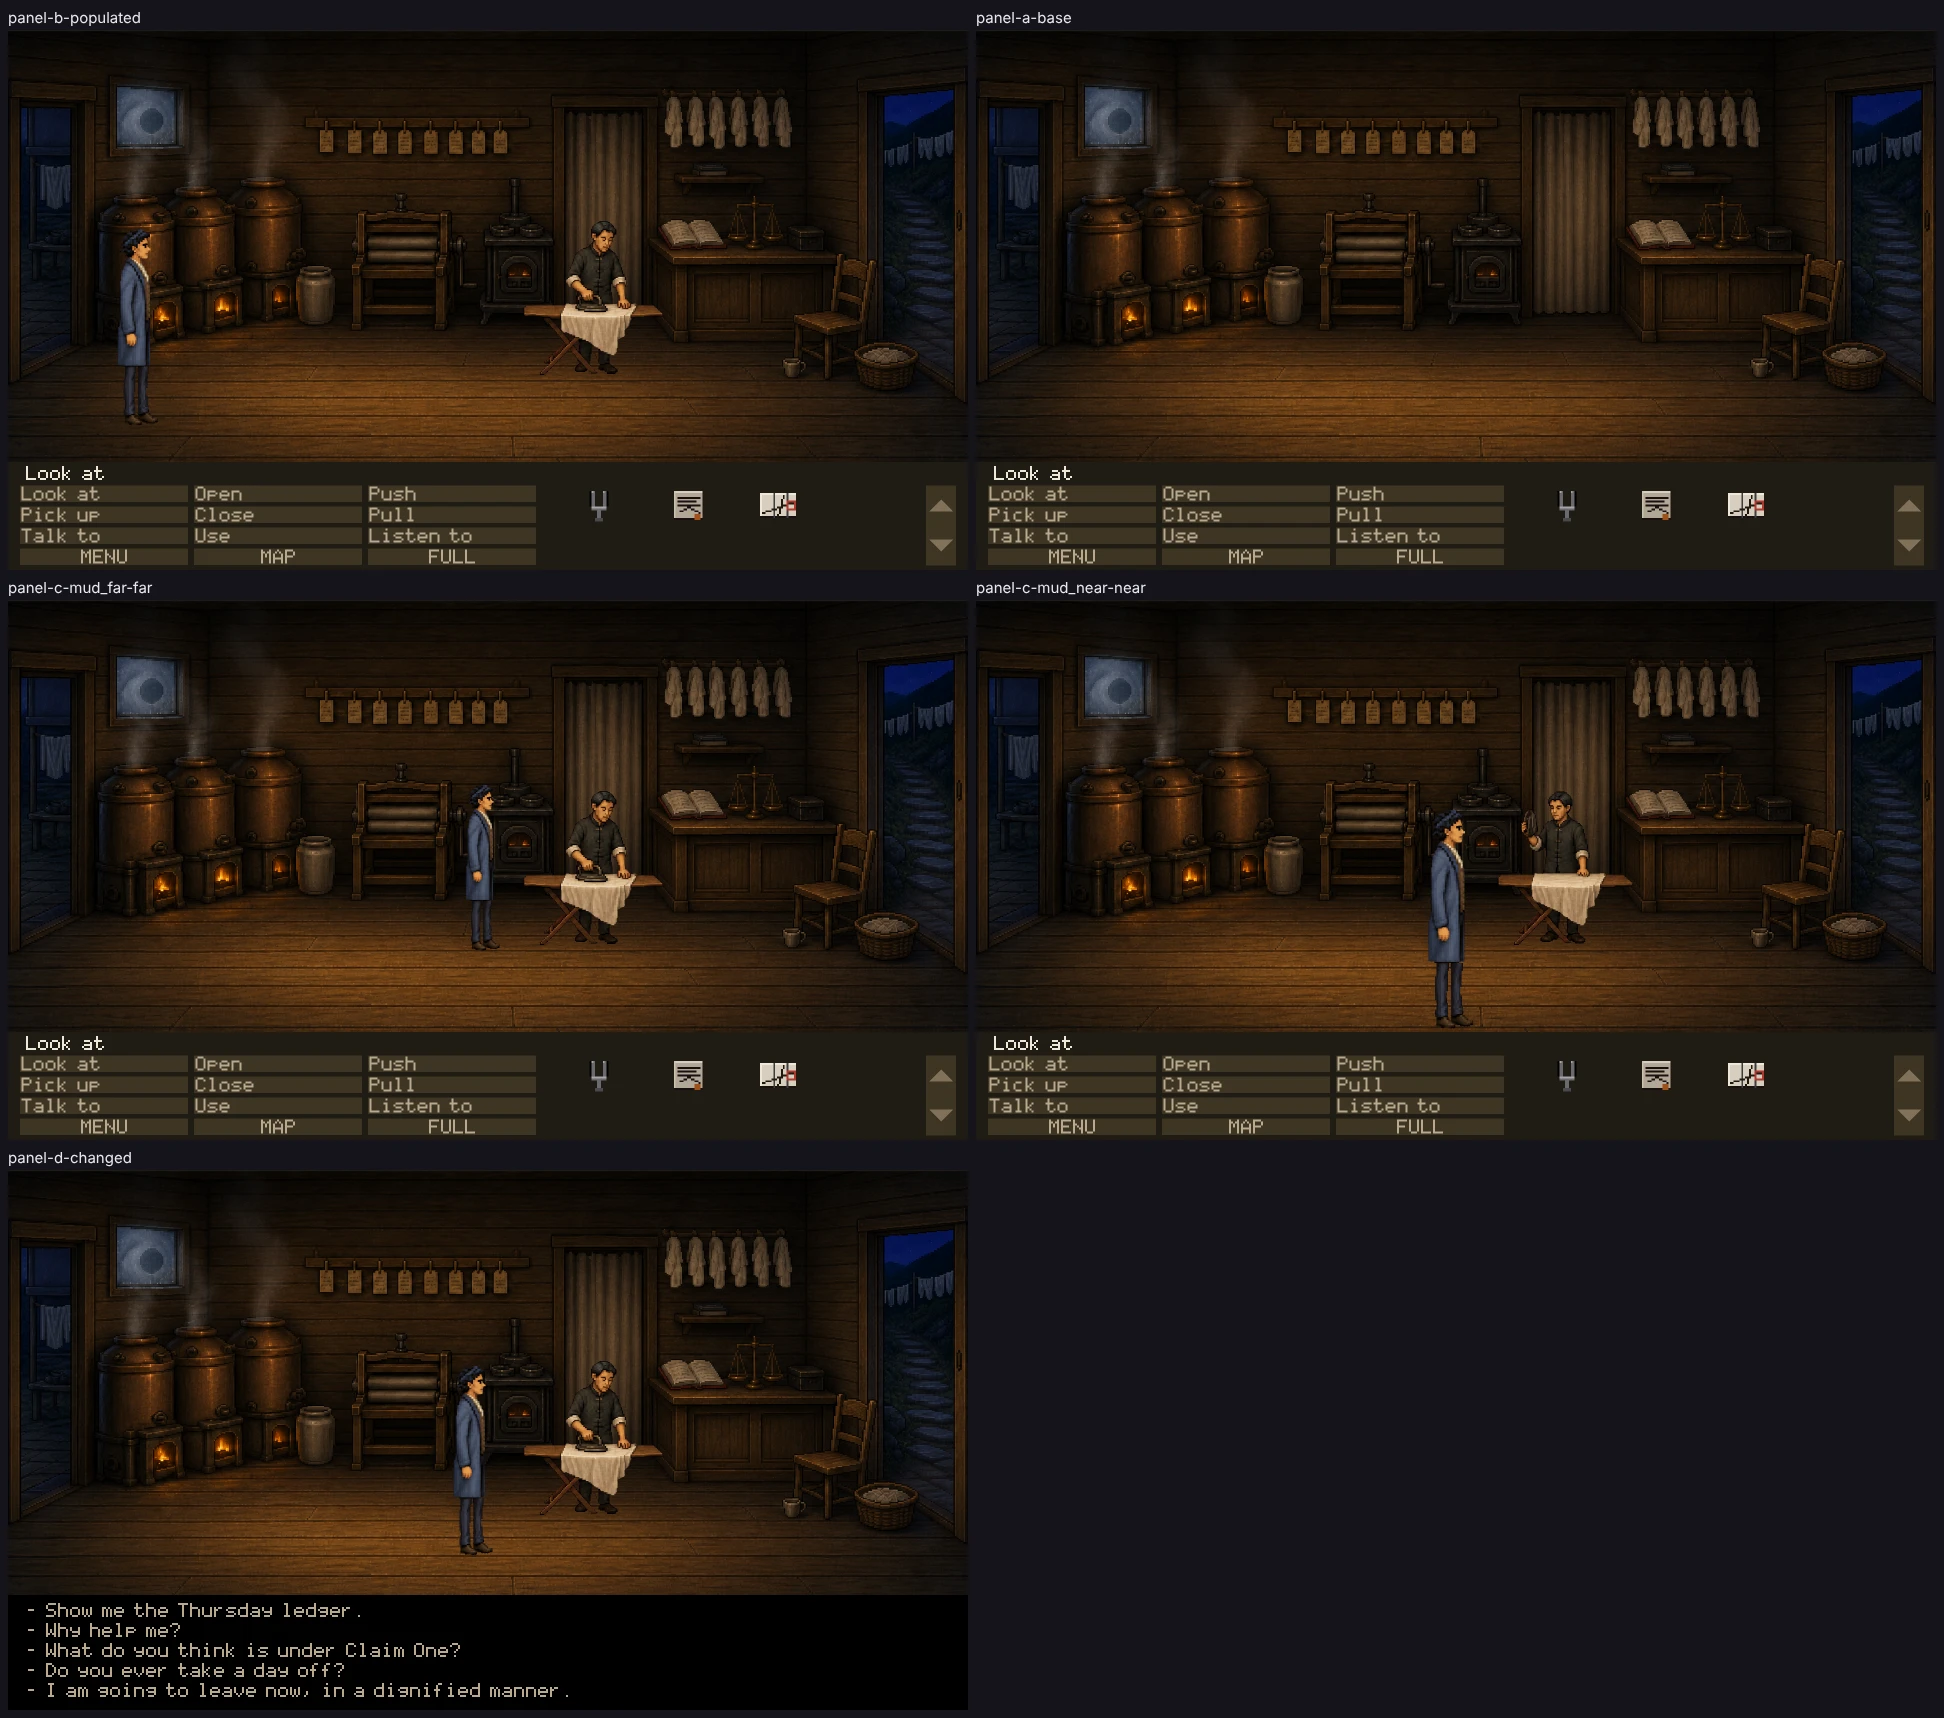
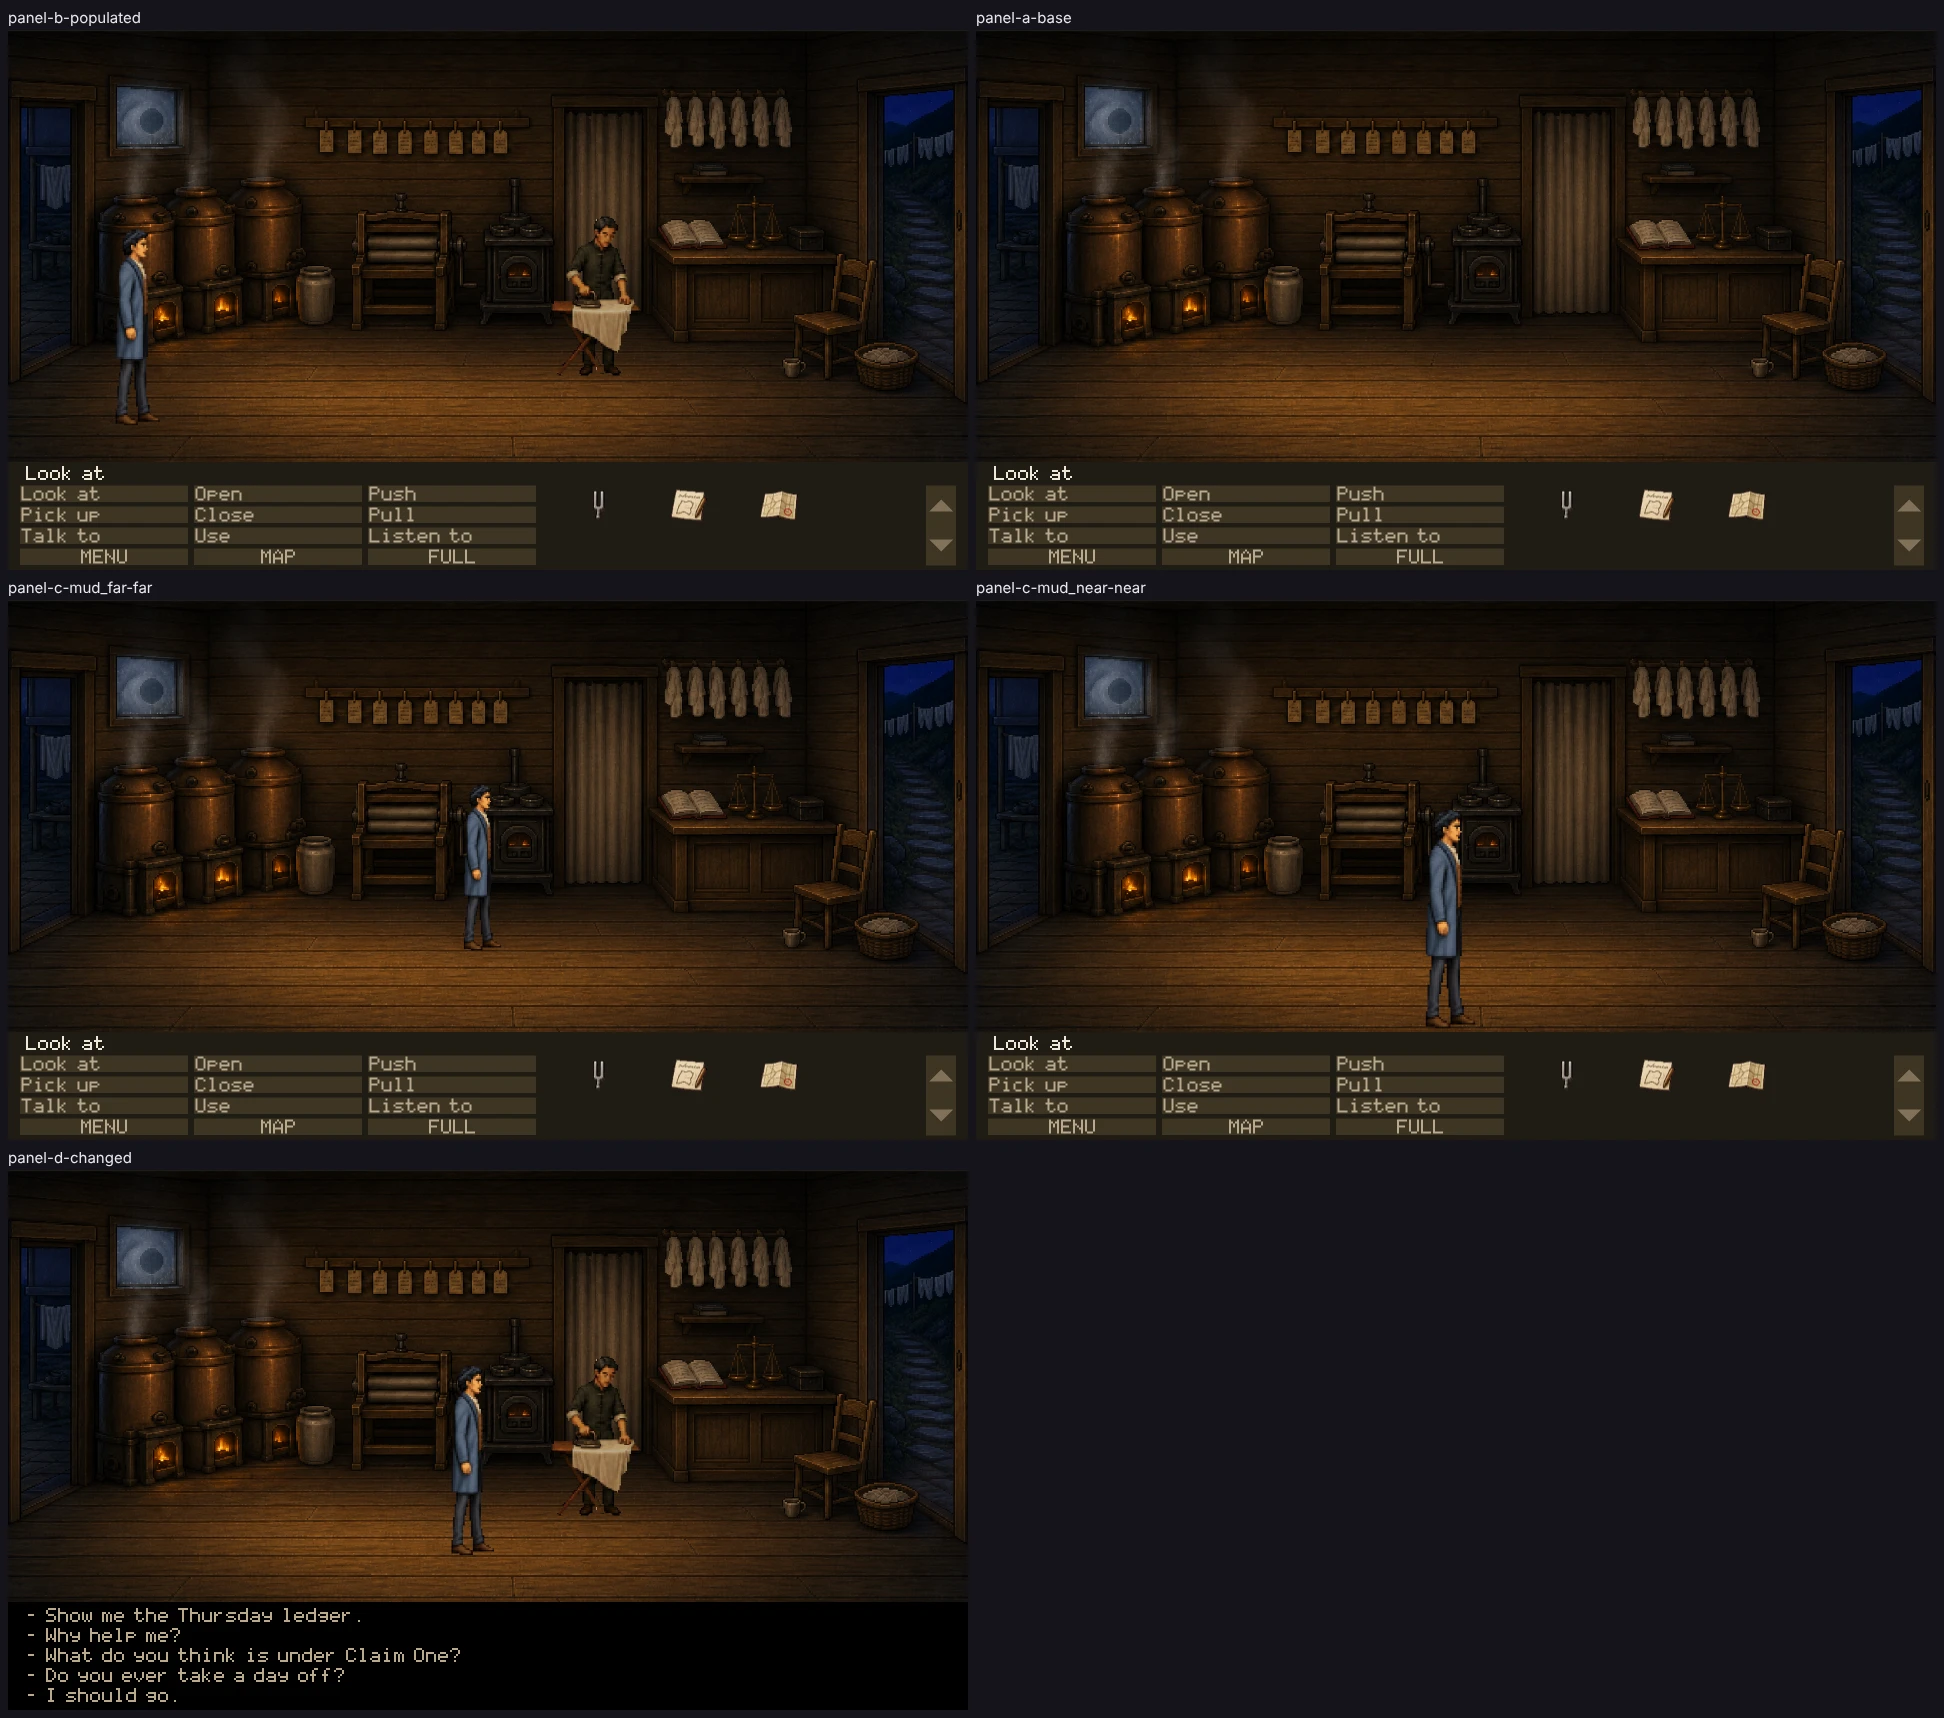
Errata 235: the room proof for laundry, everyone within 3% of Thad
Claude-Session: https://claude.ai/code/session_01FXbCus2Hm36NL2YuHFGB8T

diff --git a/renders/proofs/laundry/index.html b/renders/proofs/laundry/index.html
@@ -17,7 +17,7 @@
 </style>
 <h1>laundry — four-panel live-runtime proof</h1>
 <p class="lede">Every frame below is the full play area as the renderer drew it, in the running
-game, at <code>a515b4ce</code> on <code>ccr-347d40c6-71r9f9</code>.
+game, at <code>43dc9bb6</code> on <code>everyone-within-3</code>.
 No crop, isolated sprite or source image appears here: those are for diagnosing what a full
 frame has already shown.</p>
 <p class="lede"><b>These panels establish technical admissibility only.</b> Nothing here says the
@@ -37,7 +37,7 @@ art is good, in style, funny or approved. Only Tyler sets <code>visual_accepted<
       'raw capture not committed -- regenerate with: npm run proof ' + "laundry" }))">
     <figcaption><b>PANEL B &mdash; normal populated state</b>
       <span>room laundry &middot; camera 0 &middot;
-        flags T_OPENING_SAID T_COACH_DEPARTED T_UNDERTAKER_NAMED T_HOB_CROSSING T_THAD_LEAVING T_HOB_SPOKEN T_HOB_GONE T_OPENING_DONE T_SEEN_MAIN_STREET T_SWINDLED T_CASE_DOWN T_CASE_TAKEN T_SURVEY_NEEDED T_NINETY_DAYS T_EGGS_ON_ACCOUNT T_TONIC_ON_ACCOUNT T_BLANKET_BORROWED T_PRATT_PAID T_SEEN_CLAIMS_ROAD &middot;
+        flags T_OPENING_SAID T_COACH_DEPARTED T_UNDERTAKER_NAMED T_HOB_CROSSING T_THAD_LEAVING T_HOB_SPOKEN T_HOB_GONE T_OPENING_DONE T_SEEN_MAIN_STREET T_SWINDLED T_CASE_DOWN T_CASE_TAKEN T_SURVEY_NEEDED T_NINETY_DAYS T_EGGS_ON_ACCOUNT T_TONIC_ON_ACCOUNT T_BLANKET_BORROWED T_PRATT_PAID T_SEEN_CLAIMS_ROAD T_CUTAWAY_CLARION &middot;
         inventory tuning_fork deed company_map</span>
       <span>thad @260,790 391px sprite</span>
     </figcaption>
@@ -48,7 +48,7 @@ art is good, in style, funny or approved. Only Tyler sets <code>visual_accepted<
       'raw capture not committed -- regenerate with: npm run proof ' + "laundry" }))">
     <figcaption><b>PANEL A &mdash; base state, cast suppressed</b>
       <span>room laundry &middot; camera 0 &middot;
-        flags T_OPENING_SAID T_COACH_DEPARTED T_UNDERTAKER_NAMED T_HOB_CROSSING T_THAD_LEAVING T_HOB_SPOKEN T_HOB_GONE T_OPENING_DONE T_SEEN_MAIN_STREET T_SWINDLED T_CASE_DOWN T_CASE_TAKEN T_SURVEY_NEEDED T_NINETY_DAYS T_EGGS_ON_ACCOUNT T_TONIC_ON_ACCOUNT T_BLANKET_BORROWED T_PRATT_PAID T_SEEN_CLAIMS_ROAD &middot;
+        flags T_OPENING_SAID T_COACH_DEPARTED T_UNDERTAKER_NAMED T_HOB_CROSSING T_THAD_LEAVING T_HOB_SPOKEN T_HOB_GONE T_OPENING_DONE T_SEEN_MAIN_STREET T_SWINDLED T_CASE_DOWN T_CASE_TAKEN T_SURVEY_NEEDED T_NINETY_DAYS T_EGGS_ON_ACCOUNT T_TONIC_ON_ACCOUNT T_BLANKET_BORROWED T_PRATT_PAID T_SEEN_CLAIMS_ROAD T_CUTAWAY_CLARION &middot;
         inventory tuning_fork deed company_map</span>
       <span>thad @260,790 391px sprite</span>
     </figcaption>
@@ -59,7 +59,7 @@ art is good, in style, funny or approved. Only Tyler sets <code>visual_accepted<
       'raw capture not committed -- regenerate with: npm run proof ' + "laundry" }))">
     <figcaption><b>PANEL D &mdash; principal changed state: T_SHENG_HOLDS_PAPER (doc 04 SHE_A1 option 1). Visible consequence: SHE_D1's options -- the ledger, the loan's question, his three topics.</b>
       <span>room laundry &middot; camera 0 &middot;
-        flags T_OPENING_SAID T_COACH_DEPARTED T_UNDERTAKER_NAMED T_HOB_CROSSING T_THAD_LEAVING T_HOB_SPOKEN T_HOB_GONE T_OPENING_DONE T_SEEN_MAIN_STREET T_SWINDLED T_CASE_DOWN T_CASE_TAKEN T_SURVEY_NEEDED T_NINETY_DAYS T_EGGS_ON_ACCOUNT T_TONIC_ON_ACCOUNT T_BLANKET_BORROWED T_PRATT_PAID T_SEEN_CLAIMS_ROAD T_SHENG_HOLDS_PAPER &middot;
+        flags T_OPENING_SAID T_COACH_DEPARTED T_UNDERTAKER_NAMED T_HOB_CROSSING T_THAD_LEAVING T_HOB_SPOKEN T_HOB_GONE T_OPENING_DONE T_SEEN_MAIN_STREET T_SWINDLED T_CASE_DOWN T_CASE_TAKEN T_SURVEY_NEEDED T_NINETY_DAYS T_EGGS_ON_ACCOUNT T_TONIC_ON_ACCOUNT T_BLANKET_BORROWED T_PRATT_PAID T_SEEN_CLAIMS_ROAD T_SHENG_HOLDS_PAPER T_SHENG_PAPER_HEARD T_CUTAWAY_CLARION &middot;
         inventory tuning_fork deed company_map</span>
       <span>thad @930,770 378px sprite</span>
     </figcaption>
@@ -69,14 +69,14 @@ art is good, in style, funny or approved. Only Tyler sets <code>visual_accepted<
     <figcaption><b>PANEL C &mdash; mud_far far, authored y701</b>
       <span>expected 331px &middot; runtime 331px &middot;
         silhouette 331px, bottom y700</span>
-      <span>art/actors/thad-idle-right/idle-02.png</span>
+      <span>art/actors/thad-idle-right/idle-00.png</span>
     </figcaption>
   </figure>
   <figure>
     <img src="raw-captures-ignored/panel-c-mud_near-near.png" alt="">
     <figcaption><b>PANEL C &mdash; mud_near near, authored y857</b>
       <span>expected 437px &middot; runtime 437px &middot;
-        silhouette 457px, bottom y856</span>
-      <span>art/actors/thad-idle-right/idle-00.png</span>
+        silhouette 437px, bottom y856</span>
+      <span>art/actors/thad-idle-right/idle-05.png</span>
     </figcaption>
   </figure>
